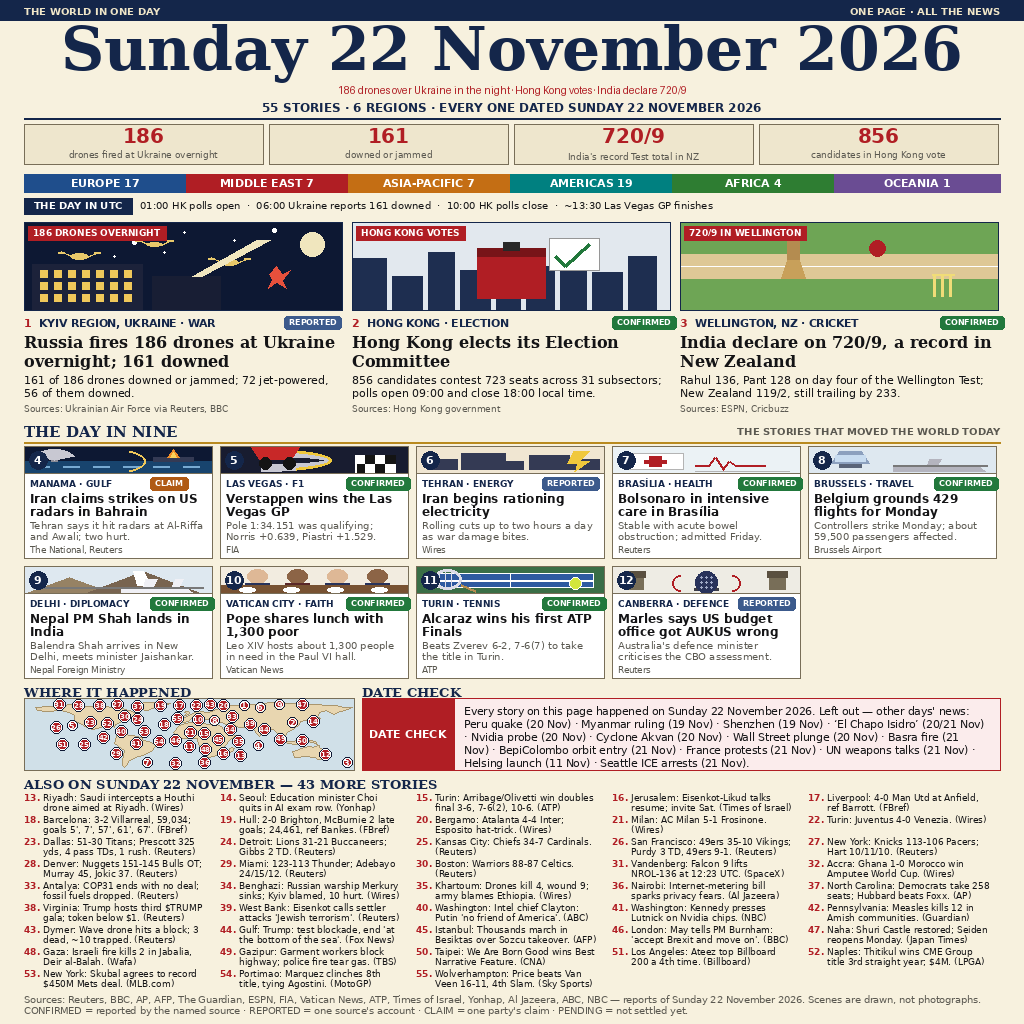
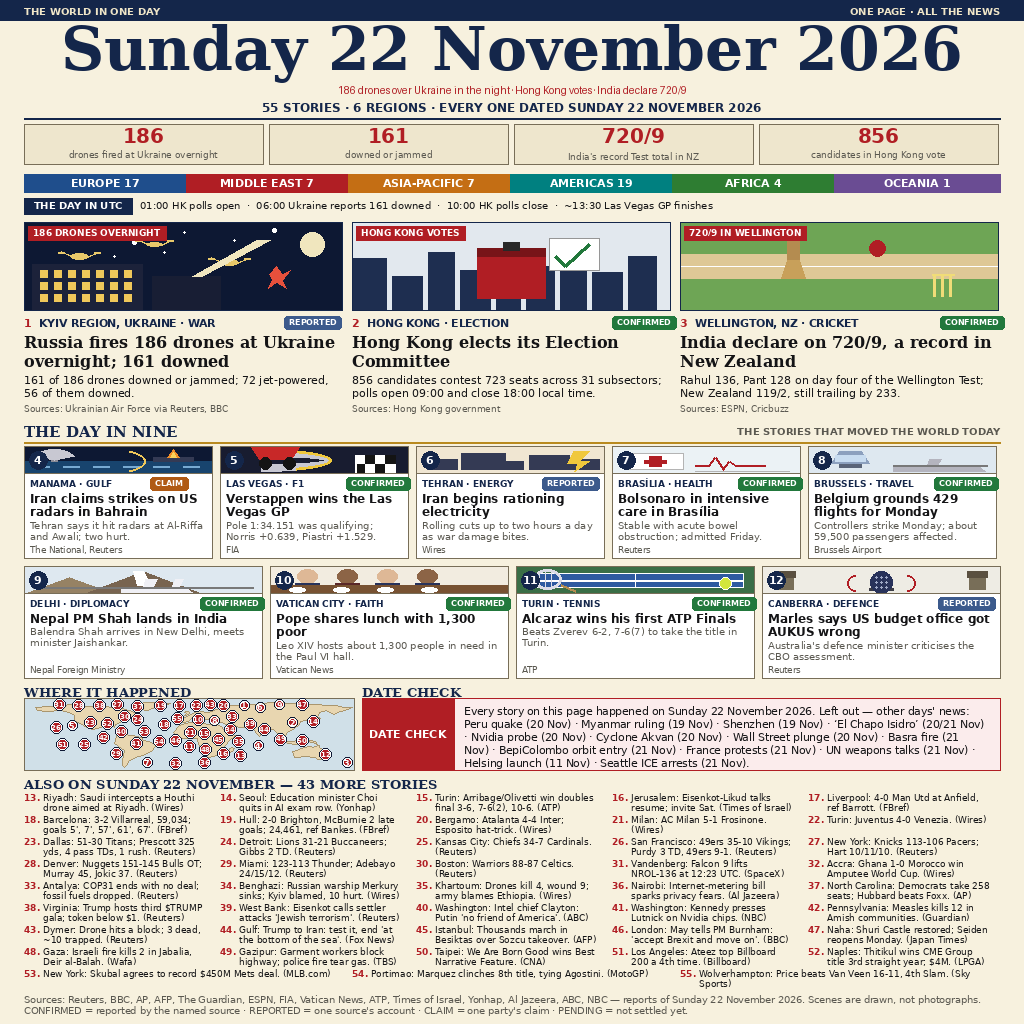
v4.1: reword briefs 43-44, close empty grid cells (55b)

diff --git a/main.py b/main.py
@@ -36,6 +36,11 @@ tighter cards with 26-pixel pictogram strips, and the five-column
 brief band — four columns at 10 pt could not hold the band, because
 two-line briefs need 22 px rows and eleven rows would run past the
 footer, so the longest briefs were trimmed to fit two lines.
+
+v4.1 (55b): briefs 43 and 44 reworded for clean English, and the two
+empty grid cells closed — the last brief row runs three wide cells
+and the second NINE row runs four wide cards, so every row fills
+the full width and no cell sits empty anywhere on the page.
 """
 
 import os
@@ -321,9 +326,9 @@ BRIEFS = [
      "NBC", "AM"),
     (42, "Pennsylvania", "Measles kills 12 in Amish communities.",
      "Guardian", "AM"),
-    (43, "Dymer", "Wave drone hits a block; 3 dead, ~10 trapped.",
+    (43, "Dymer", "Drone hits a block; 3 dead, ~10 trapped.",
      "Reuters", "EU"),
-    (44, "Gulf", "Trump: test blockade, end 'at the bottom of the sea'.",
+    (44, "Gulf", "Trump to Iran: test it, end 'at the bottom of the sea'.",
      "Fox News", "ME"),
     (45, "Istanbul", "Thousands march in Besiktas over Sozcu takeover.",
      "AFP", "EU"),
@@ -1172,12 +1177,15 @@ def build_page():
     for i, story in enumerate(TEN):
         col = i % 5
         row = i // 5
-        x = MX + col * (card_w + card_gap)
+        # Second row holds four cards (9-12): stretch them to fill the
+        # full width so no grid cell sits empty at the row's right end.
+        cw = card_w if row == 0 else (CW - 3 * card_gap) // 4
+        x = MX + col * (cw + card_gap)
         y = grid_y + row * (card_h + card_gap)
-        draw.rectangle([x, y, x + card_w, y + card_h], fill=(255, 255, 255),
+        draw.rectangle([x, y, x + cw, y + card_h], fill=(255, 255, 255),
                        outline=RULE, width=1)
-        TEN_ART[story["art"]](draw, x + 1, y + 1, card_w - 2, ill_h2)
-        draw.line([(x, y + ill_h2 + 1), (x + card_w, y + ill_h2 + 1)],
+        TEN_ART[story["art"]](draw, x + 1, y + 1, cw - 2, ill_h2)
+        draw.line([(x, y + ill_h2 + 1), (x + cw, y + ill_h2 + 1)],
                   fill=RULE, width=1)
         # Number chip on the illustration, top-left.
         nf = font(SANS_BOLD, 11)
@@ -1191,15 +1199,15 @@ def build_page():
         # Place + beat, tag chip right.
         place = "%s \u00b7 %s" % (story["place"], story["beat"])
         pf = font(SANS_BOLD, 9)
-        draw.text((tx, ty), one_line(draw, place, pf, card_w - 66),
+        draw.text((tx, ty), one_line(draw, place, pf, cw - 66),
                   font=pf, fill=NAVY)
-        tag_chip(draw, x + card_w - 62, ty - 1, story["tag"])
+        tag_chip(draw, x + cw - 62, ty - 1, story["tag"])
         ty += 13
         hlines = fit_lines(draw, story["headline"], font(SANS_BOLD, 12),
-                           card_w - 12, 2)
+                           cw - 12, 2)
         ty = text_block(draw, tx, ty, hlines, font(SANS_BOLD, 12), INK, 13.5)
         dlines = fit_lines(draw, story["deck"], font(SANS, 10),
-                           card_w - 12, 2)
+                           cw - 12, 2)
         ty = text_block(draw, tx, ty + 1, dlines, font(SANS, 10), GREY, 11)
         draw.text((tx, y + card_h - 13), story["source"],
                   font=font(SANS, 8.5), fill=GREY)
@@ -1208,7 +1216,7 @@ def build_page():
 
     # --- where it happened + date check -----------------------------------
     # Map on the left, DATE CHECK on the right at the same height, so
-    # the 43 briefs below get a full-width four-column band of their own.
+    # the 43 briefs below get a full-width five-column band of their own.
     draw.text((MX, bottom_y + 6), "WHERE IT HAPPENED",
               font=font(SERIF_BOLD, 13), fill=NAVY)
     draw.text((MX + 338, bottom_y + 6), "DATE CHECK",
@@ -1234,8 +1242,9 @@ def build_page():
                INK, 13)
 
     # --- also on sunday: 43 more stories in five columns ------------------
-    # Five columns of nine rows (the last row holds three); each brief
-    # is one short fact in at most two lines, the red number leading.
+    # Five columns of nine rows; the last row holds three briefs in
+    # three wide cells, so no cell sits empty. Each brief is one short
+    # fact in at most two lines, the red number leading.
     # Rows run at 22 px: two 9-pt lines at 10 px leading fill 21 px,
     # so the next row starts 1 px clear of the descenders. Four
     # columns at 10 pt could not hold the band: two lines need 22 px
@@ -1249,14 +1258,17 @@ def build_page():
     for i, (num, place, text, src, _reg) in enumerate(BRIEFS):
         col = i % 5
         row = i // 5
-        x = bx0 + col * (col_w + 8)
+        # Last row holds only three briefs (53-55): run them as three
+        # wide cells across the full band so no cell sits empty.
+        cw = col_w if row < 8 else (CW - 2 * 8) // 3
+        x = bx0 + col * (cw + 8)
         y = briefs_y + row * 22
         nf = font(SANS_BOLD, 9)
         num_txt = "%d." % num
         nw = draw.textlength(num_txt + " ", font=nf)
         draw.text((x, y), num_txt, font=nf, fill=RED)
         body = "%s: %s (%s)" % (place, text, src)
-        lines = fit_lines(draw, body, font(SANS, 9), col_w - 6 - nw, 2)
+        lines = fit_lines(draw, body, font(SANS, 9), cw - 6 - nw, 2)
         text_block(draw, x + nw, y, lines, font(SANS, 9), INK, 10)
 
     # --- footer ------------------------------------------------------------------

diff --git a/README.md b/README.md
@@ -14,7 +14,7 @@ python3 main.py
 
 That writes `out/entry.png` (1024x1024, one PNG, under 1 MiB). The program draws the page at runtime with Pillow when it is available; when Pillow is missing it copies the prebuilt `assets/prebuilt.png` byte for byte, so two runs always write identical bytes — the prebuilt file is refreshed from each new render so the fallback never shows an older edition.
 
-The page carries 55 stories: 3 leads, 9 in THE DAY IN NINE, and 43 briefs, plus 4 numbers and 4 timed events. Every story happened on Sunday 22 November 2026 — each one checked against its date by an outside fact-check (or, for the three FBref football results, against the match records themselves); the DATE CHECK box names the other days' news that was deliberately left out. The briefs run in five columns of nine rows at 9 pt: at 10 pt the two-line briefs would overlap the row below, so the band went five-wide and the longest briefs were trimmed to two lines without dropping a verified fact.
+The page carries 55 stories: 3 leads, 9 in THE DAY IN NINE, and 43 briefs, plus 4 numbers and 4 timed events. Every story happened on Sunday 22 November 2026 — each one checked against its date by an outside fact-check (or, for the three FBref football results, against the match records themselves); the DATE CHECK box names the other days' news that was deliberately left out. The briefs run in five columns of nine rows at 9 pt — the last row holds three briefs in three wide cells, and the second row of THE DAY IN NINE runs four wide cards, so no grid cell sits empty: at 10 pt the two-line briefs would overlap the row below, so the band went five-wide and the longest briefs were trimmed to two lines without dropping a verified fact; briefs 43 and 44 were reworded for clean English in the same pass.
 
 ---
 
